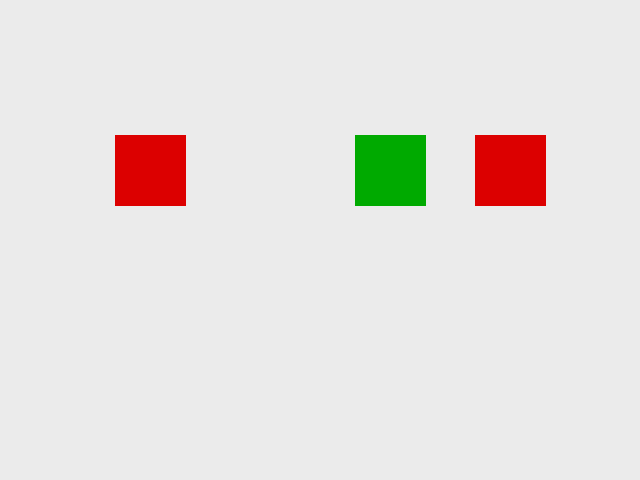
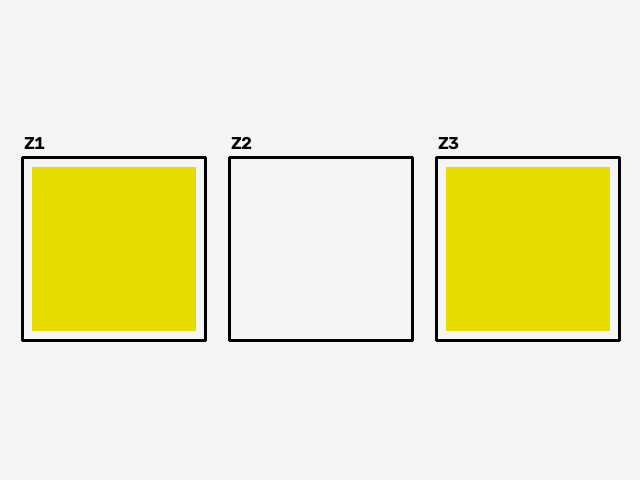
Démo : gabarit de référence 3 Post-it (PDF), nom de la photo NOK dans le journal

Changed region(s): [[0.0312, 0.2812, 0.9688, 0.7188]]

diff --git a/visiocheck/journal.py b/visiocheck/journal.py
@@ -6,7 +6,7 @@ from pathlib import Path
 
 import cv2
 
-COLONNES = ["horodatage", "verdict_global", "zones_en_defaut", "detail"]
+COLONNES = ["horodatage", "verdict_global", "zones_en_defaut", "detail", "photo"]
 
 # Excel en français attend des « ; » entre les colonnes (la virgule y sert aux décimales).
 SEPARATEUR_COLONNES = ";"
@@ -21,11 +21,17 @@ def maintenant():
     return datetime.now().strftime("%Y-%m-%d %H:%M:%S")
 
 
-def enregistrer_controle(chemin_csv, resultat, horodatage):
-    """Ajoute une ligne au journal CSV (crée le fichier et son en-tête si besoin)."""
+def enregistrer_controle(chemin_csv, resultat, horodatage, nom_photo=""):
+    """Ajoute une ligne au journal CSV (crée le fichier et son en-tête si besoin).
+
+    `nom_photo` : nom du fichier de la photo NOK (vide pour un contrôle OK).
+    Il fait le lien entre une ligne du journal et sa photo.
+    """
     chemin_csv = Path(chemin_csv)
     chemin_csv.parent.mkdir(parents=True, exist_ok=True)
     nouveau_fichier = not chemin_csv.exists()
+    if not nouveau_fichier:
+        verifier_entete(chemin_csv)
 
     defauts = [r for r in resultat["zones"] if r["verdict"] != "OK"]
     ligne = {
@@ -35,6 +41,7 @@ def enregistrer_controle(chemin_csv, resultat, horodatage):
         "zones_en_defaut": SEPARATEUR_ZONES.join(r["nom"] for r in defauts),
         # Ex. "Z2=MANQUANT,Z4=ERREUR(rouge)"
         "detail": SEPARATEUR_ZONES.join(_decrire_defaut(r) for r in defauts),
+        "photo": nom_photo,
     }
     # newline="" : évite les lignes vides en trop dans le CSV sous Windows.
     with open(chemin_csv, "a", newline="", encoding=ENCODAGE) as fichier:
@@ -42,6 +49,20 @@ def enregistrer_controle(chemin_csv, resultat, horodatage):
         if nouveau_fichier:
             ecrivain.writeheader()
         ecrivain.writerow(ligne)
+
+
+def verifier_entete(chemin_csv):
+    """Vérifie que le journal existant a les colonnes attendues.
+
+    Évite de mélanger deux formats dans le même fichier (ex. un journal créé
+    avant l'ajout de la colonne photo).
+    """
+    with open(chemin_csv, newline="", encoding=ENCODAGE) as fichier:
+        entete = fichier.readline().strip()
+    if entete != SEPARATEUR_COLONNES.join(COLONNES):
+        raise RuntimeError(
+            f"{chemin_csv} a un ancien format de colonnes ({entete}). "
+            "Renomme ou supprime cet ancien journal, un nouveau sera créé.")
 
 
 def _decrire_defaut(resultat_zone):
@@ -81,10 +102,8 @@ def lire_journal(chemin_csv):
     """Relit le journal CSV et renvoie la liste des lignes (dictionnaires)."""
     with open(chemin_csv, newline="", encoding=ENCODAGE) as fichier:
         lignes = list(csv.DictReader(fichier, delimiter=SEPARATEUR_COLONNES))
-    if lignes and "verdict_global" not in lignes[0]:
-        raise RuntimeError(
-            f"{chemin_csv} n'est pas au format attendu (colonnes séparées par « ; »). "
-            "Renomme ou supprime cet ancien journal.")
+    if lignes:
+        verifier_entete(chemin_csv)
     return lignes
 
 

diff --git a/scripts/creer_images_demo.py b/scripts/creer_images_demo.py
@@ -26,20 +26,34 @@ COULEURS_BGR = {
 }
 
 
+# Écarts en pixels autour d'une zone, comme sur le gabarit imprimé (docs/) :
+# le Post-it (76 mm) déborde un peu de la zone (70 mm), le cadre noir (85 mm) l'entoure.
+DEBORD_PIECE = 6
+DEBORD_CADRE = 16
+
+
+def agrandir(zone, ecart):
+    """Renvoie les 2 coins du rectangle de la zone agrandi de `ecart` pixels de chaque côté."""
+    coin1 = (zone["x"] - ecart, zone["y"] - ecart)
+    coin2 = (zone["x"] + zone["largeur"] + ecart, zone["y"] + zone["hauteur"] + ecart)
+    return coin1, coin2
+
+
 def dessiner_gabarit(zones, pieces, largeur=640, hauteur=480):
-    """Dessine un fond blanc et une pièce colorée dans chaque zone.
+    """Dessine le gabarit (feuille blanche, cadres noirs, noms des zones) et les pièces posées.
 
     `pieces` associe un nom de zone à une couleur, ou à None pour un emplacement vide.
     """
-    image = np.full((hauteur, largeur, 3), 235, dtype=np.uint8)  # fond gris très clair
+    image = np.full((hauteur, largeur, 3), 245, dtype=np.uint8)  # feuille blanche
     for zone in zones:
+        coin1, coin2 = agrandir(zone, DEBORD_CADRE)
+        cv2.rectangle(image, coin1, coin2, (0, 0, 0), 2)
+        cv2.putText(image, zone["nom"], (coin1[0] + 2, coin1[1] - 8),
+                    cv2.FONT_HERSHEY_SIMPLEX, 0.6, (0, 0, 0), 2)
         couleur = pieces.get(zone["nom"])
-        if couleur is None:
-            continue
-        marge = 15  # la pièce est un peu plus petite que la zone
-        coin1 = (zone["x"] + marge, zone["y"] + marge)
-        coin2 = (zone["x"] + zone["largeur"] - marge, zone["y"] + zone["hauteur"] - marge)
-        cv2.rectangle(image, coin1, coin2, COULEURS_BGR[couleur], -1)
+        if couleur is not None:
+            coin1, coin2 = agrandir(zone, DEBORD_PIECE)
+            cv2.rectangle(image, coin1, coin2, COULEURS_BGR[couleur], -1)
     return image
 
 
@@ -48,14 +62,15 @@ def main():
     dossier = configuration.chemin_projet("data/exemples")
     dossier.mkdir(parents=True, exist_ok=True)
 
+    if len(zones) < 2:
+        raise RuntimeError("Il faut au moins 2 zones dans config/gabarit.json pour créer la démo.")
+
     tout_bon = {z["nom"]: z["couleur_attendue"] for z in zones}
-    # NOK : 2e zone vide, dernière zone avec une pièce rouge à la place de l'attendue.
+    # NOK : 2e zone vide (MANQUANT) ; dernière zone avec la pièce de la 1re zone,
+    # comme une erreur de montage (ERREUR).
     defauts = dict(tout_bon)
     defauts[zones[1]["nom"]] = None
-    if zones[-1]["couleur_attendue"] != "rouge":
-        defauts[zones[-1]["nom"]] = "rouge"
-    else:
-        defauts[zones[-1]["nom"]] = "bleu"
+    defauts[zones[-1]["nom"]] = zones[0]["couleur_attendue"]
 
     ecrire_image(dossier / "demo_ok.png", dessiner_gabarit(zones, tout_bon))
     ecrire_image(dossier / "demo_nok.png", dessiner_gabarit(zones, defauts))

diff --git a/tests/test_detection.py b/tests/test_detection.py
@@ -105,7 +105,7 @@ def test_journal_utilise_le_point_virgule_pour_excel(tmp_path):
     journal.enregistrer_controle(chemin, controler({"Z1": "rouge", "Z2": None, "Z3": "bleu"}),
                                  "2026-10-20 19:00:00")
     premiere_ligne = chemin.read_text(encoding="utf-8-sig").splitlines()[0]
-    assert premiere_ligne == "horodatage;verdict_global;zones_en_defaut;detail"
+    assert premiere_ligne == "horodatage;verdict_global;zones_en_defaut;detail;photo"
 
 
 def test_echec_d_ecriture_d_image_est_signale(tmp_path):
@@ -113,3 +113,22 @@ def test_echec_d_ecriture_d_image_est_signale(tmp_path):
     chemin = tmp_path / "dossier_absent" / "photo.jpg"
     with pytest.raises(RuntimeError):
         journal.ecrire_image(chemin, np.zeros((10, 10, 3), dtype=np.uint8))
+
+
+def test_journal_note_le_nom_de_la_photo(tmp_path):
+    chemin = tmp_path / "controles.csv"
+    nok = controler({"Z1": "rouge", "Z2": None, "Z3": "bleu"})
+    journal.enregistrer_controle(chemin, nok, "2026-10-21 19:40:00", "nok_2026-10-21_19-40-00.jpg")
+    journal.enregistrer_controle(chemin, controler({"Z1": "rouge", "Z2": "vert", "Z3": "bleu"}),
+                                 "2026-10-21 19:41:00")
+    lignes = journal.lire_journal(chemin)
+    assert lignes[0]["photo"] == "nok_2026-10-21_19-40-00.jpg"
+    assert lignes[1]["photo"] == ""
+
+
+def test_ancien_format_de_journal_est_refuse(tmp_path):
+    chemin = tmp_path / "controles.csv"
+    chemin.write_text("horodatage;verdict_global;zones_en_defaut;detail\n", encoding="utf-8-sig")
+    with pytest.raises(RuntimeError):
+        journal.enregistrer_controle(chemin, controler({"Z1": "rouge", "Z2": "vert", "Z3": "bleu"}),
+                                     "2026-10-21 19:42:00")

diff --git a/scripts/main.py b/scripts/main.py
@@ -33,14 +33,19 @@ def controler(image, zones, couleurs, reglages, compteurs):
     image_annotee = affichage.dessiner_resultat(image, zones, resultat)
     horodatage = journal.maintenant()
     regl_journal = reglages["journal"]
-    journal.enregistrer_controle(
-        configuration.chemin_projet(regl_journal["fichier_csv"]), resultat, horodatage)
 
+    # La photo est enregistrée d'abord, pour pouvoir noter son nom dans le journal.
+    nom_photo = ""
     if resultat["verdict_global"] == "NOK":
         chemin = journal.sauvegarder_photo_nok(
             configuration.chemin_projet(regl_journal["dossier_nok"]), image_annotee, horodatage)
+        nom_photo = chemin.name
+    journal.enregistrer_controle(
+        configuration.chemin_projet(regl_journal["fichier_csv"]), resultat, horodatage, nom_photo)
+
+    if nom_photo:
         defauts = ", ".join(f'{r["nom"]} {r["verdict"]}' for r in detection.zones_en_defaut(resultat))
-        print(f"{horodatage}  NOK ({defauts})  photo : {chemin.name}")
+        print(f"{horodatage}  NOK ({defauts})  photo : {nom_photo}")
     else:
         print(f"{horodatage}  OK")
     return image_annotee

diff --git a/scripts/calibrer_zones.py b/scripts/calibrer_zones.py
@@ -97,7 +97,10 @@ def main():
             if not zones:
                 print("Aucune zone à enregistrer.")
                 continue
-            configuration.ecrire_json("gabarit.json", {"zones": zones})
+            # On ne remplace que les zones : la description du gabarit est conservée.
+            gabarit = configuration.lire_json("gabarit.json")
+            gabarit["zones"] = zones
+            configuration.ecrire_json("gabarit.json", gabarit)
             print(f"{len(zones)} zone(s) enregistrée(s) dans config/gabarit.json")
             break
         elif touche == ord("q"):

diff --git a/README.md b/README.md
@@ -54,6 +54,10 @@ py -3.12 -m venv .venv    # forcer Python 3.12 si plusieurs versions sont instal
 pip install -r requirements.txt
 ```
 
+**Choix de la caméra** dans `config/reglages.json` :
+- webcam intégrée : `"index": 0`, `"backend": "DSHOW"` ;
+- iPhone via DroidCam (réglage actuel) : `"index": 1`, `"backend": "MSMF"`.
+
 ## Utilisation
 Essai sans webcam :
 ```powershell
@@ -61,6 +65,11 @@ python scripts/creer_images_demo.py
 python scripts/main.py data/exemples/demo_nok.png
 ```
 Avec la webcam :
+
+Gabarit de référence à imprimer : `docs/gabarit_visiocheck_3_postit_A4.pdf`
+(A4 paysage, à 100 %, la règle doit mesurer 10 cm). Il compte 3 emplacements pour
+Post-it 76 x 76 mm : Z1 jaune, Z2 vert, Z3 bleu.
+
 ```powershell
 python scripts/hsv_picker.py        # 1. vérifier les couleurs, ajuster config/couleurs.json
 python scripts/calibrer_zones.py    # 2. dessiner les zones du gabarit
